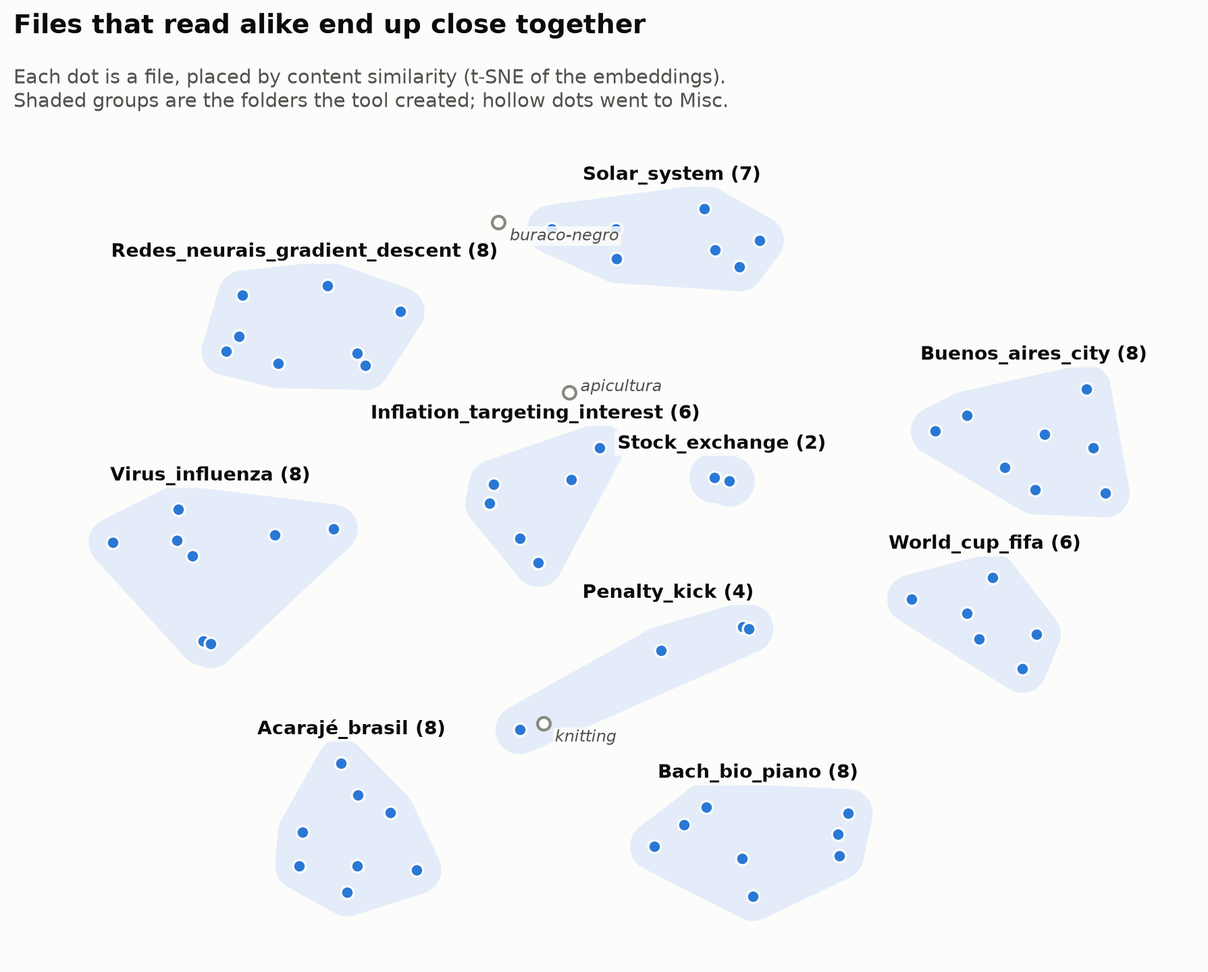
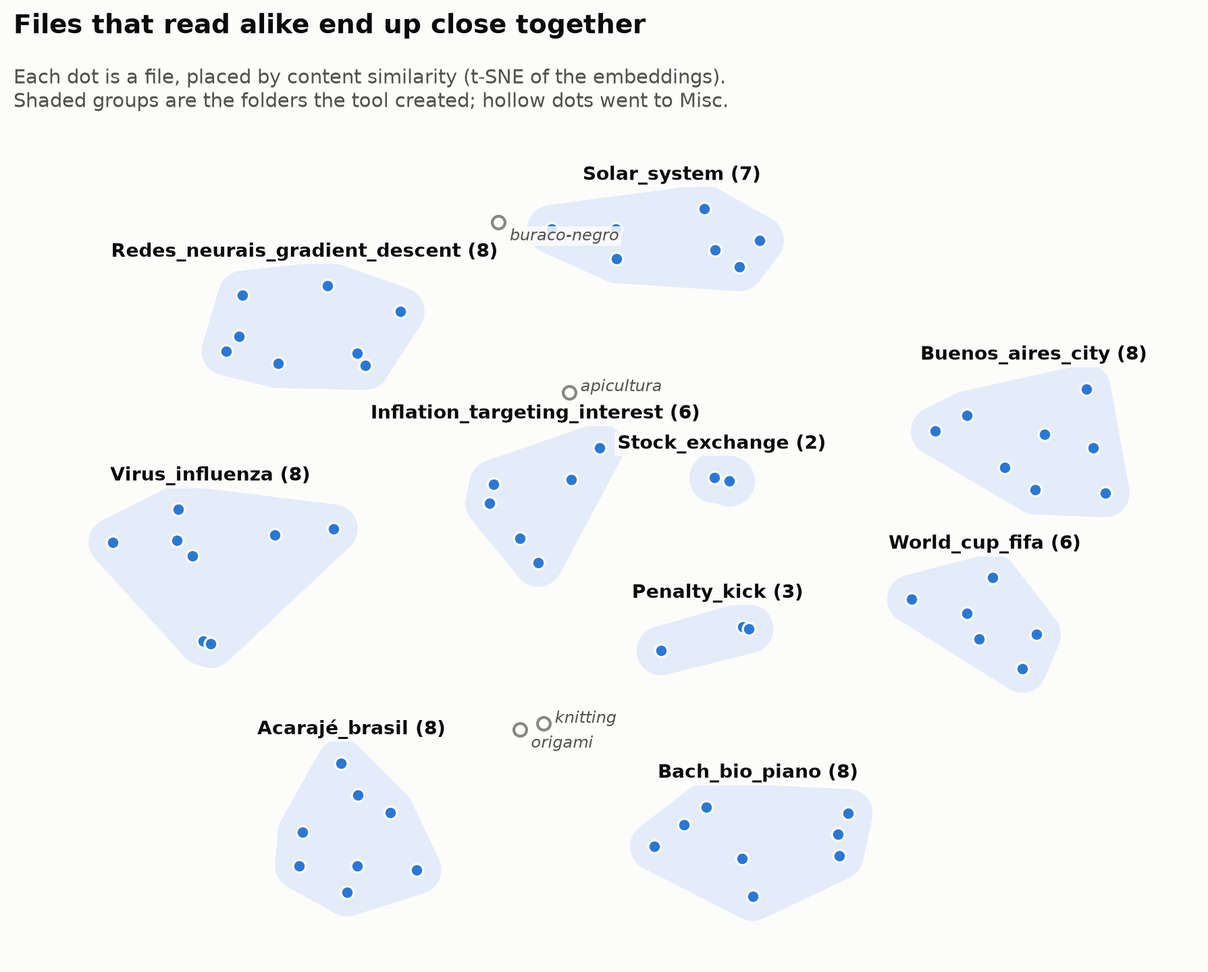
Update README, TODO and CLAUDE.md for v0.2.0; regenerate charts
Charts in docs/img are regenerated from examples/demo with no options at
all (language detection now automatic). The README covers --lang auto,
the new Misc rule, .rtf/.xlsx, --history/--version, measured speed and
the quality test; TODO.md records what was measured for each change,
including the four folder-naming alternatives that didn't beat YAKE.

Changed region(s): [[0.3997, 0.6421, 0.6149, 0.795], [0.4919, 0.581, 0.6456, 0.6421]]

diff --git a/CLAUDE.md b/CLAUDE.md
@@ -16,7 +16,7 @@ pip install -r requirements.txt
 ```
 Or `pip install -e .` (uses `pyproject.toml`) to also get a real `document_analyzer` top-level package and the `organize-files` console script.
 
-Run the CLI (prompts interactively for a directory path if omitted; see `main.py::parse_args` for the full flag set — `--target-dir`, `--dry-run`, `-y`, `--path-weight`, `--max-clusters`, `--keyword-ngram`, `--keyword-count`, `--lang`, `--misc-threshold`, `--copy`, `--report`, `--undo`, `--include-all`, `--exclude`, `--verbose`/`--quiet`):
+Run the CLI (prompts interactively for a directory path if omitted; see `main.py::parse_args` for the full flag set — `--target-dir`, `--dry-run`, `-y`, `--path-weight`, `--max-clusters`, `--keyword-ngram`, `--keyword-count`, `--lang` (default `auto`), `--misc-threshold`, `--copy`, `--report`, `--undo`, `--history`, `--version`, `--include-all`, `--exclude`, `--verbose`/`--quiet`):
 ```bash
 python -m src.document_analyzer.main
 ```
@@ -25,6 +25,11 @@ Run all tests:
 ```bash
 python -m unittest discover tests
 ```
+Quality test with the real embedding model on `examples/demo` (slow, ~470 MB model download the first time; skipped otherwise):
+```bash
+RUN_QUALITY=1 python -m unittest tests.test_quality
+```
+
 
 Run a single test file / test case / test method:
 ```bash
@@ -37,18 +42,18 @@ python -m unittest tests.test_analyzer.TestDocumentAnalyzer.test_extract_keyword
 
 Single pipeline, driven from `src/document_analyzer/analyzer.py::DocumentAnalyzer`:
 
-0. **`DocumentAnalyzer(path_weight=2, max_clusters=10, yake_ngram=2, yake_top=5, skip_noise=True, exclude_patterns=None, lang="en")`** — all seven tuning knobs are constructor params (also exposed as CLI flags in `main.py`); defaults match the original hardcoded values (`skip_noise`/`exclude_patterns`/`lang` are newer and have no old behavior to match — filtering defaults on, exclude defaults to none, `lang` defaults to the original hardcoded `"en"`). `lang` only selects YAKE's stopword list (the embedding model is multilingual regardless); set it to the language your documents are actually in (`--lang pt`), or that language's stopwords (`de`, `do`, `para`) become folder names. It accepts a comma-separated list (`--lang pt,en`) for mixed directories: `_stopwords(langs)` unions YAKE's bundled lists and passes them as the `stopwords=` kwarg, since YAKE itself only takes a single `lan`. It reads each list off a throwaway `KeywordExtractor` rather than opening the bundled `.txt` files (their path moved between YAKE 0.4 and 0.7), and returns `None` for a single language so the unchanged path stays entirely inside YAKE. `max_clusters < 3` raises `ValueError` immediately (`_find_optimal_clusters`'s candidate range `range(2, max_k)` is empty otherwise, which used to surface as a bare `numpy`/`sklearn` exception).
+0. **`DocumentAnalyzer(path_weight=2, max_clusters=10, yake_ngram=2, yake_top=5, skip_noise=True, exclude_patterns=None, lang="auto", misc_threshold=2.0)`** — all seven tuning knobs are constructor params (also exposed as CLI flags in `main.py`); defaults match the original hardcoded values (`skip_noise`/`exclude_patterns`/`lang` are newer and have no old behavior to match — filtering defaults on, exclude defaults to none, `lang` defaults to the original hardcoded `"en"`). `lang="auto"` (the default) detects each document's language among `AUTO_LANGS` (en, pt, es, fr, de, it, nl); a comma-separated list (`"pt,en"`) restricts detection to those codes. Either way `self.stopword_sets` holds `{lang: YAKE stopword set}` for the candidates; the languages actually found drive per-language centring and the YAKE stopwords (`_stopwords(langs)` unions the lists, since YAKE itself only takes a single `lan`; under auto the extractor is rebuilt in `analyze_directory` after detection). Audio is transcribed during the scan, before detection, so under auto `set_transcription_language` stays `en`; with an explicit list it uses the first code. It reads each list off a throwaway `KeywordExtractor` rather than opening the bundled `.txt` files (their path moved between YAKE 0.4 and 0.7), and returns `None` for a single language so the unchanged path stays entirely inside YAKE. `max_clusters < 3` raises `ValueError` immediately (`_find_optimal_clusters`'s candidate range `range(2, max_k)` is empty otherwise, which used to surface as a bare `numpy`/`sklearn` exception).
 
 1. **`analyze_directory(path)`** — top-level entry point.
    - Scans the directory (`os.scandir`, non-recursive at this level for files, but recurses into subfolders via `_analyze_folder`). Every entry is checked against `_is_noise_entry(name, self.skip_noise, self.exclude_patterns)`: when `skip_noise` (default on), a name starting with `.` or matching `DEFAULT_SKIP_NAMES` (`__pycache__`, `node_modules`) is skipped — this also incidentally hides `organize_files`' own `.file_organizer_created`/`.file_organizer_manifest_*.json` dotfiles from a later scan; `--include-all` (CLI) / `skip_noise=False` (constructor) disables just that default heuristic. Independently, any name matching one of `exclude_patterns` (`fnmatch` glob patterns, `--exclude PATTERN` on the CLI, repeatable) is always skipped, even under `--include-all` — it's an explicit user ask, not the default heuristic. A subfolder is skipped entirely (not recursed, not added as a document) if it's a symlink (`entry.is_symlink()` — prevents unbounded recursion on a symlink cycle) or if it contains `ORGANIZED_MARKER` (`.file_organizer_created`, dropped by `organize_files` into every cluster folder it creates — this stops a second run on an already-organized directory from re-clustering the first run's output as fresh documents); these two checks are unconditional, independent of both `skip_noise` and `exclude_patterns`.
-   - Files with extensions in `readable_files` (`.pdf`, `.txt`, `.md`, `.csv`, `.xml`, `.docx`, `.pptx`, `.odt`) get content via `utils.read_file`; extensions in `audio_files` (`.mp3`, `.wav`, `.flac`, `.aac`, `.ogg`, `.wma`, `.m4a`, `.aiff`, `.opus`) get content via `utils.read_audio_metadata`; everything else gets `Content: None`. Extension matching is case-insensitive (`ext.lower()`).
+   - Files with extensions in `readable_files` (`.pdf`, `.txt`, `.md`, `.csv`, `.xml`, `.rtf`, `.docx`, `.pptx`, `.odt`, `.xlsx`) get content via `utils.read_file(path, max_chars=READ_CHARS)` (5000 characters: the model only sees ~512 tokens, and reading whole PDFs was 181 s of a 411 s run on ~2000 files; `_analyze_folder` likewise stops reading file contents once a subfolder has `READ_CHARS` of text); extensions in `audio_files` (`.mp3`, `.wav`, `.flac`, `.aac`, `.ogg`, `.wma`, `.m4a`, `.aiff`, `.opus`) get content via `utils.read_audio_metadata`; everything else gets `Content: None`. Extension matching is case-insensitive (`ext.lower()`).
    - Builds a `pandas.DataFrame` with one row per top-level entry (`Path`, `Content`).
    - `utils.create_weighted_text` concatenates the filename (repeated `self.path_weight` times) with file content into a `Text` column — this weighting biases embeddings toward filename similarity, not just content.
    - Embeds `Text` via `SentenceTransformer(EMBEDDING_MODEL)` — `intfloat/multilingual-e5-small`, each text prefixed with `EMBEDDING_PREFIX` (`"query: "`, what e5's model card specifies for symmetric tasks like clustering) and encoded with `normalize_embeddings=True` so KMeans' Euclidean distance is monotonic in cosine distance, the metric these embeddings are trained for. Two deliberate choices here: multilingual, because the original `all-MiniLM-L6-v2` is English-only and gave non-English documents near-random embeddings; and 512-token context, because `paraphrase-multilingual-MiniLM-L12-v2` truncates at 128 — short enough that every letterheaded PDF (institution header, CNPJ, address) embedded to the same boilerplate and collapsed into one giant cluster. ~470MB download vs `all-MiniLM-L6-v2`'s ~90MB. If you change the model, re-check `max_seq_length` and whether it wants a prefix. Logs an info line before this step and before cluster-count search — both can be slow on larger directories.
-   - **Per-language centering** (only when `lang` lists 2+ codes; `self.stopword_sets` is `None` otherwise): `_detect_languages` assigns each `Text` the language whose YAKE stopwords it uses most, and `_center_by_language` subtracts each language's mean embedding and re-normalizes. Without it a pt+en folder clustered by *language* (e5 encodes language more strongly than topic); measured on `examples/demo`'s 64 topic texts, adjusted Rand vs. true topics at k=8 went 0.34 → 1.00. A language with a single document is left uncentred.
+   - **Per-language centering** (always runs): `_detect_languages` assigns each `Text` the candidate language whose stopwords it uses most, or `""` when it has none (bare filenames - that group is centred like a language too), and `_center_by_language` subtracts each language's mean embedding and re-normalizes. Without it a pt+en folder clustered by *language* (e5 encodes language more strongly than topic); measured on `examples/demo`'s 64 topic texts, adjusted Rand vs. true topics at k=8 went 0.34 → 1.00. A language with a single document is left uncentred.
    - `_find_optimal_clusters` picks a k (2..min(`self.max_clusters`, n-1), inclusive of both ends) by combining elbow-method (`_elbow_k`: `K[argmax(np.diff(inertia, 2)) + 1]` — it used to be `argmin` without the `+1`, i.e. the flattest stretch, off by one), silhouette score (max), and Davies-Bouldin score (min) — the **median** of the three candidates. Median rather than `Counter.most_common`: with three distinct candidates the counter silently returned whichever was inserted first (silhouette), and silhouette on one dense blob plus a few outliers always votes for a tiny k. The median still returns the majority value whenever two metrics agree. The upper bound is capped at `n - 1` rather than `n` because `silhouette_score` requires strictly fewer clusters than samples (k == n would crash mid-loop). The elbow candidate is only included when there are ≥3 k-values to test (≥5 documents), since a 2nd derivative needs 3+ points; below that it falls back to silhouette/Davies-Bouldin only, and directories with ≤2 usable documents skip clustering entirely (`k=1`, everything in one folder) rather than crashing. Davies-Bouldin replaced Calinski-Harabasz, which voted k=2 on nearly every real folder (so the median collapsed to min(elbow, silhouette)): on the 68-file demo k went 4 → 10, adjusted Rand 0.35 → 0.85.
    - Stores `self.k_scores` (`k`, `inertia`, `silhouette`, `davies_bouldin`, `votes`, `chosen`; `None` for ≤2 docs) and `self.last_run` (`paths`, `embeddings` as clustered, `k_scores`) for `report.py`.
-   - Runs `KMeans` with that k; documents whose distance to their centroid exceeds mean + `misc_threshold` × std (global z-score; `0` disables) get label `-1` → `MISC_FOLDER` (`"Misc"`, no YAKE naming). Then `_organize_clusters` names each cluster folder via `_folder_name(keywords)` — the top-2 YAKE keywords joined, dropping words the two share (YAKE's top keywords overlap constantly, which used to produce names like `Engenharia_eletrica_energia_eletrica`); falls back to `Cluster_<n>` if no keywords extracted. If two clusters produce the same folder name, their files are merged into that one folder (`setdefault(...).extend(...)`) rather than one cluster's files overwriting the other's.
+   - Runs `KMeans` with that k; `_misc_labels` gives label `-1` to documents farther than mean + `misc_threshold` × std from their centroid, with a negative silhouette (closer to another cluster than their own), or left alone in a cluster (`misc_threshold=0` disables all of it) → `MISC_FOLDER` (`"Misc"`, no YAKE naming). Then `_organize_clusters` names each cluster folder via `_folder_name(keywords)` — the top-2 YAKE keywords joined, dropping words the two share (YAKE's top keywords overlap constantly, which used to produce names like `Engenharia_eletrica_energia_eletrica`); falls back to `Cluster_<n>` if no keywords extracted. If two clusters produce the same folder name, their files are merged into that one folder (`setdefault(...).extend(...)`) rather than one cluster's files overwriting the other's.
    - Returns `{folder_name: [original_filenames]}`.
 
 2. **`_analyze_folder(folder_path)`** — recursively walks a subdirectory, concatenating all descendant file names/contents into a single `Content` blob so the whole subfolder is treated as one document for clustering purposes. Uses `entry.path` directly (never `os.path.join(folder_path, entry)` — `DirEntry.__fspath__` already returns the full path, so joining it again used to double the path and made every subfolder containing a readable/audio file raise `FileNotFoundError`, silently dropping that whole subfolder). Per-file read errors are caught here too, same as the top-level scan in `analyze_directory`, degrading to filename-only instead of losing the rest of the subfolder. Nested symlinked directories are skipped the same way as at the top level, for the same cycle-prevention reason. Applies the same `_is_noise_entry` filtering as the top-level scan, so a nested `.git`/`__pycache__`/`node_modules`/excluded-pattern entry doesn't get folded into the subfolder's content blob either.
@@ -56,13 +61,15 @@ Single pipeline, driven from `src/document_analyzer/analyzer.py::DocumentAnalyze
 3. **`organize_files(folder_structure, source_dir, target_dir=None, copy=False)`** — creates the cluster folders (under `target_dir`, defaulting to `source_dir`), drops `ORGANIZED_MARKER` into each one, and moves (`shutil.move`) each original file into its assigned folder — works across filesystems/drives, unlike `os.rename`. This is a real filesystem mutation — moves files out of `source_dir` in place unless `target_dir` is given. Before each move it checks whether the destination path already exists and skips (with a warning) instead of moving — `shutil.move` → `os.rename` on POSIX silently clobbers an existing destination with no error, so the `except FileExistsError` this used to rely on was dead code there (Windows-only). Every successful move is recorded as `{"source": ..., "destination": ...}` and, if anything moved, written as a JSON manifest to `target_dir` (`.file_organizer_manifest_<timestamp>.json`); the method returns that manifest's path (or `None` if nothing moved). **`undo_organize(manifest_path)`** (module-level function, not a method) reads a manifest and moves each destination back to its source, skipping (with a warning) if the destination is missing or the source path is already occupied — mirrors the same never-clobber rule in reverse. With `copy=True` entries are copied (`copy2`/`copytree`) and recorded with `"copy": true`; undo deletes such a copy only while its original still exists. After undoing, cluster folders holding only the marker are removed, and the manifest is deleted if no entry was skipped. Warnings/progress go through `logger`; only the manifest path/undo command and the undo summary are `print`ed.
 
 `src/document_analyzer/utils.py`:
-- `read_file` — dispatches by extension: `pypdf` for `.pdf` (its noisy per-object warnings are silenced at import), `_read_zipped_xml(path, member_glob, tags)` driven by `ZIPPED_XML_FORMATS` for `.docx` (`word/document.xml`, `w:t`), `.pptx` (`ppt/slides/slide*.xml` in numeric order, `a:t`) and `.odt` (`content.xml`, `text:p`/`text:h`) — stdlib only, `chardet`-detected-encoding text read for `.txt`/`.md`/`.csv`/`.xml`. Raises on unsupported/unreadable files; empty files return `""`.
+- `read_file(path, max_chars=None)` — dispatches by extension (with `max_chars`, PDFs stop extracting pages and text files stop reading once they have that much): `pypdf` for `.pdf` (its noisy per-object warnings are silenced at import), `_read_zipped_xml(path, member_glob, tags)` driven by `ZIPPED_XML_FORMATS` for `.docx` (`word/document.xml`, `w:t`), `.pptx` (`ppt/slides/slide*.xml` in numeric order, `a:t`) `.odt` (`content.xml`, `text:p`/`text:h`) and `.xlsx` (`xl/*.xml`, spreadsheetml `t` - shared and inline strings) — stdlib only, `_rtf_to_text` for `.rtf` (a small stdlib reader: drops font/colour/info/`\*` groups, decodes `\'hh` and `\uN`), `chardet`-detected-encoding text read (detection on the first 64 KB) for `.txt`/`.md`/`.csv`/`.xml`. Raises on unsupported/unreadable files; empty files return `""`.
 - `create_weighted_text` — the filename/content weighting used for embeddings (see above). Uses the name's words, not the raw filename: extension dropped, separators → spaces (`receita_pao-de.queijo.txt` → `receita pao de queijo`); otherwise YAKE put `feijoada.txt` into folder names. The `path_weight` repetitions are joined with spaces, not concatenated: `"a.pdfa.pdf"` tokenizes as one unknown blob, so the repetition used to add noise rather than weight.
 - `read_audio_metadata` — for `audio_files` extensions, combines TinyTag metadata (title/artist/album/genre/composer) with a Vosk offline transcription (via `transcribe_audio`, which shells out to `ffmpeg` to normalize to 16kHz mono WAV first). `TINYTAG_AVAILABLE`/`VOSK_AVAILABLE` are set at import time from `try/except ImportError`, so the whole audio path degrades to `None` (no crash) if `tinytag`/`vosk`/`ffmpeg` aren't installed — those are optional deps in `requirements.txt`. `set_transcription_language(lang_code)` picks from `VOSK_LANGUAGE_MODELS`; models are lazily downloaded to `VOSK_MODEL_DIR` (`~/.cache/vosk`) on first use per language. `DocumentAnalyzer.__init__` calls it with the first `--lang` code. `_convert_to_wav` uses `mkstemp` (not the racy `mktemp`).
 
-`src/document_analyzer/main.py` — CLI wrapper (`argparse`, see `parse_args`): takes `path` as a positional arg (prompted interactively if omitted), builds `DocumentAnalyzer` from the tuning flags, prints the proposed cluster structure, then either stops (`--dry-run`), moves without asking (`-y/--yes`), or asks for `y`/`N` confirmation before calling `organize_files` — nothing moves without an explicit opt-in. `--target-dir` is threaded through to `organize_files`; defaults to `path` (in-place) when omitted. `--undo MANIFEST` short-circuits all of this at the top of `main()` — if passed, it calls `undo_organize` and returns immediately, without touching `path`, `DocumentAnalyzer`, or any tuning flags. `--lang` is threaded to the `DocumentAnalyzer` constructor (YAKE stopwords only — it does not switch the embedding model, which is already multilingual); it takes one code or several (`pt,en`). `--verbose`/`--quiet` (mutually exclusive) pick the root logging level (`DEBUG`/`WARNING`, default `INFO`); `logging.basicConfig(..., force=True)` is called at the top of `main()` (not at import time) so the level reflects that run's flags — `force=True` matters in-process too, since `basicConfig` is normally a no-op after the first call. `_load_config()` reads `CONFIG_PATH` (`~/.config/file-organizer.toml`, module-level constant so tests can patch it) via stdlib `tomllib` at the top of `parse_args()`, before the parser is built; each `add_argument`'s `default=` pulls from that dict (e.g. `config.get("path_weight", 2)`) so an explicit CLI flag always overrides the config value, and a missing or malformed config file (caught as `tomllib.TOMLDecodeError`/`OSError`, logged as a warning) just falls back to the hardcoded defaults.
+`src/document_analyzer/main.py` — CLI wrapper (`argparse`, see `parse_args`): takes `path` as a positional arg (prompted interactively if omitted), builds `DocumentAnalyzer` from the tuning flags, prints the proposed cluster structure, then either stops (`--dry-run`), moves without asking (`-y/--yes`), or asks for `y`/`N` confirmation before calling `organize_files` — nothing moves without an explicit opt-in. `--target-dir` is threaded through to `organize_files`; defaults to `path` (in-place) when omitted. `--undo MANIFEST` short-circuits all of this at the top of `main()` — if passed, it calls `undo_organize` and returns immediately, without touching `path`, `DocumentAnalyzer`, or any tuning flags. `--lang` (default `auto`) is threaded to the `DocumentAnalyzer` constructor (language detection, per-language centring and YAKE stopwords — it never switches the embedding model, which is already multilingual); it takes `auto`, one code or several (`pt,en`). `--history` and `--undo` short-circuit before the analyzer (and its model) is built. `--verbose`/`--quiet` (mutually exclusive) pick the root logging level (`DEBUG`/`WARNING`, default `INFO`); `logging.basicConfig(..., force=True)` is called at the top of `main()` (not at import time) so the level reflects that run's flags — `force=True` matters in-process too, since `basicConfig` is normally a no-op after the first call. `_load_config()` reads `CONFIG_PATH` (`~/.config/file-organizer.toml`, module-level constant so tests can patch it) via stdlib `tomllib` at the top of `parse_args()`, before the parser is built; each `add_argument`'s `default=` pulls from that dict (e.g. `config.get("path_weight", 2)`) so an explicit CLI flag always overrides the config value, and a missing or malformed config file (caught as `tomllib.TOMLDecodeError`/`OSError`, logged as a warning) just falls back to the hardcoded defaults.
 
 `src/document_analyzer/report.py` — `save_report(last_run, folder_structure, out_dir)` for `--report DIR`, sized for a README (~9 in wide at 200 dpi, 11 pt base font, headline + subtitle via `_headline`): `map.png` is one t-SNE map (cosine, fixed seed) with one highlight hue — each folder gets a shaded outline (`_group_outline`: convex hull drawn with a thick round edge; 1-2 or collinear points fall back to a round-capped stroke) and a direct label, Misc files are hollow dots labelled with their names, and `_declutter` nudges overlapping labels upward (more than 3 categorical colours on one scatter fails colour-blind checks, hence no colour per folder). `k_selection.png` has three panels that all vote at their peak: the elbow panel plots the inertia's 2nd difference, and Davies-Bouldin's axis is inverted; the chosen k is a shaded column. `similarity.png` is the cosine heatmap ordered by folder with the diagonal blanked. matplotlib is imported lazily (optional `[viz]` extra). README images are generated with `organize-files examples/demo --dry-run --lang pt,en --report docs/img`; the 68 demo texts (8 topics x 8, pt+en, + 4 one-offs) are Wikipedia excerpts (CC BY-SA, `examples/ATTRIBUTION.md`, kept outside `demo/` so it isn't clustered).
+
+Run history: after writing a manifest, `organize_files` appends a JSON line (time, source/target dirs, manifest, file count, copy) to `HISTORY_PATH` (`$XDG_STATE_HOME/file-organizer/history.jsonl`, default `~/.local/state/...`; failures only warn); `read_history()` returns entries newest first, skipping malformed lines. `main.py --history` prints them with the undo command (or "undone" once the manifest is gone); `--version` reads `importlib.metadata.version("document-analyzer")`, `"dev"` from a checkout. Per-stage timings (read, embed, pick k, cluster+name) go to the INFO log; `silhouette_score` samples 2000 documents above that size.
 
 `src/document_analyzer/__init__.py` re-exports `DocumentAnalyzer` so `from document_analyzer import DocumentAnalyzer` works once the package is installed (`pip install -e .`, via `pyproject.toml`).
 
@@ -70,5 +77,7 @@ Single pipeline, driven from `src/document_analyzer/analyzer.py::DocumentAnalyze
 
 - `readable_files` in `analyzer.py` is the single source of truth for which extensions get content-read vs. treated as name-only; keep it in sync with `read_file`'s extension handling in `utils.py`.
 - Tests in `tests/test_analyzer.py` patch `SentenceTransformer`/`yake.KeywordExtractor` in `setUp` (via `src.document_analyzer.analyzer.SentenceTransformer` / `...analyzer.yake.KeywordExtractor` — the names as looked up from inside `analyzer.py`, not their origin modules) before `DocumentAnalyzer()` is constructed, so `self.mock_model`/`self.mock_kw_extractor` are available in every test. Configure `.encode.return_value` / `.extract_keywords.return_value` per test as needed.
+- `TestDocumentAnalyzer.setUp` also patches `src.document_analyzer.analyzer.HISTORY_PATH` to a temp file, so tests never append to the real run history.
+- `tests/test_quality.py` (skipped unless `RUN_QUALITY=1`) runs the real model with default settings on `examples/demo` and checks the folders against `examples/demo_topics.tsv` (adjusted Rand ≥ 0.8, no monolingual folders, report renders). CI runs it in its own job with the Hugging Face cache; the unit-test job runs on ubuntu/windows/macos × 3.12 plus ubuntu × 3.13.
 - `tests/test_main.py` patches `src.document_analyzer.main.DocumentAnalyzer` wholesale (never loads the real model) and drives `main()` via `sys.argv`/`input` patches to test the confirm/dry-run/`--yes` control flow in isolation from the real pipeline.
 - `tests/test_utils.py` covers `read_file` per extension (a real minimal `.docx` zip is built in-test; minimal `.pptx`/`.odt` zips too; PDF is exercised via a mocked `src.document_analyzer.utils.PdfReader`) and the audio path with `TINYTAG_AVAILABLE`/`VOSK_AVAILABLE`/`TinyTag` patched (`create=True` for `TinyTag` since `tinytag` isn't an installed dependency in this environment).

diff --git a/README.md b/README.md
@@ -4,7 +4,7 @@
 
 A local CLI that reads the documents in a folder, groups them by what they are *about*, and moves them into folders named after each group's keywords. Everything runs on your machine; the only network access is a one-time download of the models.
 
-`examples/demo/` is a flat folder of 68 Wikipedia excerpts: 8 topics with 8 texts each, half Portuguese and half English, plus 4 one-offs. After `organize-files examples/demo --lang pt,en`:
+`examples/demo/` is a flat folder of 68 Wikipedia excerpts: 8 topics with 8 texts each, half Portuguese and half English, plus 4 one-offs. After `organize-files examples/demo`, with no options:
 
 ```
 examples/demo/
@@ -16,42 +16,42 @@ examples/demo/
 ├── Solar_system/                    (7)  sistema_solar, mars - overview, lua, supernova, …
 ├── World_cup_fifa/                  (6)  copa-do-mundo, pele, flamengo, fifa, …
 ├── Inflation_targeting_interest/    (6)  inflacao, juros, compound_interest, central-bank, PIB, …
-├── Penalty_kick/                    (4)  penalty_kick, regra do impedimento, xadrez, origami
+├── Penalty_kick/                    (3)  penalty_kick, regra do impedimento, xadrez
 ├── Stock_exchange/                  (2)  stock market basics, bolsa de valores
-└── Misc/                            (3)  apicultura, knitting, buraco-negro
+└── Misc/                            (4)  apicultura, knitting, origami, buraco-negro
 ```
 
-Each folder mixes both languages: `redes neurais` (pt) sits next to `gradient_descent` (en). Five of the eight topics come out complete. Football and economics split into sensible sub-topics (clubs and cups vs. rules; stock markets vs. interest and inflation). The four one-offs either go to `Misc` or join their nearest neighbours: chess and origami end up next to the football rules. One astronomy text also lands in `Misc`; the outlier cut-off is a tunable heuristic (`--misc-threshold`). Folder names are the clusters' top keywords, so some are better than others (`Bach_bio_piano`).
+The languages are detected on their own, and each folder mixes both: `redes neurais` (pt) sits next to `gradient_descent` (en). Five of the eight topics come out complete. Football and economics split into sensible sub-topics (clubs and cups vs. rules; stock markets vs. interest and inflation). Three of the four one-offs go to `Misc`; chess joins the football rules, which is at least about game rules. One astronomy text also lands in `Misc`. Agreement with the true topics is 0.90 (adjusted Rand index, 1.0 = perfect). Folder names are the clusters' top keywords, so some are better than others (`Bach_bio_piano`).
 
 ## How it works
 
 ```mermaid
 flowchart LR
-    A["Files<br/>pdf · docx · pptx · odt<br/>txt · md · csv · xml · audio"] --> B["Read text<br/>+ filename words"]
+    A["Files<br/>pdf · docx · pptx · odt · xlsx · rtf<br/>txt · md · csv · xml · audio"] --> B["Read text<br/>+ filename words"]
     B --> C["Embed<br/>multilingual-e5-small"]
-    C --> D["Center per language<br/>(--lang pt,en)"]
+    C --> D["Detect language,<br/>center per language"]
     D --> E["Pick k<br/>elbow · silhouette · Davies-Bouldin"]
     E --> F["KMeans<br/>+ Misc for outliers"]
     F --> G["Name folders<br/>YAKE keywords"]
     G --> H["Move or copy<br/>+ undo manifest"]
 ```
 
-1. **Read.** Text is extracted from each file (PDF, Office, plain text, or an offline Vosk transcription for audio). A subfolder counts as one document.
+1. **Read.** Text is extracted from the start of each file (PDF, Office, RTF, plain text, or an offline Vosk transcription for audio). A subfolder counts as one document.
 2. **Embed.** Each document becomes a vector with [`intfloat/multilingual-e5-small`](https://huggingface.co/intfloat/multilingual-e5-small) (multilingual, 512-token window). The filename's words are repeated in front of the content (`--path-weight`).
-3. **Center per language.** Multilingual models still encode *which language* a text is in, strongly enough that a pt+en folder used to split by language instead of topic. When `--lang` lists several languages, each document's language is detected from its stopwords and that language's average vector is subtracted. On the demo's 64 topic texts, agreement with the true topics (adjusted Rand index at k = 8) goes from 0.34 to 1.00.
+3. **Center per language.** Multilingual models still encode *which language* a text is in, strongly enough that a mixed folder would otherwise split by language instead of topic. Each document's language is detected from its stopwords (English, Portuguese, Spanish, French, German, Italian or Dutch), and that language's average vector is subtracted. On the demo's 64 topic texts, agreement with the true topics goes from 0.34 to 1.00.
 4. **Pick k.** KMeans is run for every k up to `--max-clusters`. Three metrics each vote for a k, and the median vote wins.
-5. **Cluster.** KMeans runs with that k. Documents unusually far from their cluster's centre go to `Misc`.
+5. **Cluster.** KMeans runs with that k. A document goes to `Misc` instead if it is unusually far from its cluster's centre, closer to another cluster than to its own, or left alone in a cluster.
 6. **Name and move.** Each folder is named from its top YAKE keywords. Files are moved (or copied, with `--copy`), and every move is recorded in a manifest that `--undo` replays in reverse.
 
 ### Seeing a run: `--report`
 
-`--report DIR` saves three charts of a run. The ones below are the demo run (`organize-files examples/demo --dry-run --lang pt,en --report docs/img`).
+`--report DIR` saves three charts of a run. The ones below are the demo run (`organize-files examples/demo --dry-run --report docs/img`).
 
 **Document map.** Every dot is a file, placed so that files with similar content sit close together (a t-SNE projection of the embeddings). The shaded outlines and labels are the folders the tool created. Hollow dots went to `Misc`.
 
 ![Document map](docs/img/map.png)
 
-**Choosing k.** Each metric votes for the k at its peak: the sharpest bend of the inertia curve (elbow), the best silhouette, and the best Davies-Bouldin score (its axis is flipped because lower is better). Here the votes are 4, 10 and 10, so the median picks 10. Davies-Bouldin replaced Calinski-Harabasz, which voted k = 2 on nearly every real folder; on this demo that dragged the median down to 4 and mixed topics together (adjusted Rand 0.35, against 0.85 now).
+**Choosing k.** Each metric votes for the k at its peak: the sharpest bend of the inertia curve (elbow), the best silhouette, and the best Davies-Bouldin score (its axis is flipped because lower is better). Here the votes are 4, 10 and 10, so the median picks 10. Davies-Bouldin replaced Calinski-Harabasz, which voted k = 2 on nearly every real folder; on this demo that dragged the median down to 4 and mixed topics together.
 
 ![Choosing the number of folders](docs/img/k_selection.png)
 
@@ -59,7 +59,11 @@ flowchart LR
 
 ![Similarity heatmap](docs/img/similarity.png)
 
-The demo texts are the opening sections of Wikipedia articles, CC BY-SA 4.0 (see [`examples/ATTRIBUTION.md`](examples/ATTRIBUTION.md)).
+The demo texts are the opening sections of Wikipedia articles, CC BY-SA 4.0 (see [`examples/ATTRIBUTION.md`](examples/ATTRIBUTION.md)). Their true topics are in [`examples/demo_topics.tsv`](examples/demo_topics.tsv), which the quality test checks against.
+
+### Speed
+
+On a laptop CPU, about 2,000 files (a third of them PDFs) take about 4 minutes, two thirds of it computing the embeddings. Only the first 5,000 characters of each file are read, since the model sees about 512 tokens anyway. With `--verbose` or the default logging, each stage reports its time. A CUDA build of PyTorch is used automatically if present.
 
 ## Installation
 
@@ -71,13 +75,14 @@ pip install -e .[viz]       # + matplotlib, for --report
 pip install -e .[audio]     # + tinytag/vosk, for audio metadata and transcription
 ```
 
-Or `pip install -r requirements.txt` for everything, optional dependencies included. Audio transcription also needs `ffmpeg` on `PATH`; without it, audio files are still clustered by filename and tags. The embedding model (~470 MB) downloads on first run. Vosk models download per language to `~/.cache/vosk`.
+Or `pip install -r requirements.txt` for everything, optional dependencies included, or install a release straight from GitHub: `pip install "document-analyzer[viz] @ git+https://github.com/RafaelSdeS/File-Organizer@v0.2.0"`. Audio transcription also needs `ffmpeg` on `PATH`; without it, audio files are still clustered by filename and tags. The embedding model (~470 MB) downloads on first run. Vosk models download per language to `~/.cache/vosk`.
 
 ## Usage
 
 ```bash
-organize-files ~/Downloads --lang pt,en --dry-run     # preview only
-organize-files ~/Downloads --lang pt,en               # asks before moving
+organize-files ~/Downloads --dry-run      # preview only
+organize-files ~/Downloads                # asks before moving
+organize-files --history                  # past runs, each with its undo command
 organize-files --undo ~/Downloads/.file_organizer_manifest_<timestamp>.json
 ```
 
@@ -86,29 +91,31 @@ organize-files --undo ~/Downloads/.file_organizer_manifest_<timestamp>.json
 | Flag | What it does |
 |---|---|
 | `path` | Folder to organize (prompted if omitted) |
-| `--lang CODES` | Language(s) of your documents, comma-separated (`pt`, `pt,en`). Selects the stopwords for folder names and the transcription language, and with several codes turns on per-language centering. Default `en` |
+| `--lang CODES` | `auto` (default) detects each file's language among en, pt, es, fr, de, it and nl. A comma-separated list (`pt`, `pt,en`) restricts detection to those. Also sets the audio transcription language (English under `auto`, since audio is read before detection) |
 | `--dry-run` | Show the proposed folders without touching anything |
 | `-y, --yes` | Skip the confirmation prompt |
 | `--target-dir DIR` | Put the organized folders here instead of in place |
 | `--copy` | Copy instead of move; originals stay where they are |
 | `--undo MANIFEST` | Revert a previous run. Moved files go back, copies are deleted (never the last copy), and the emptied folders and the manifest are removed |
+| `--history` | List past runs, newest first, with the command to undo each one (kept in `~/.local/state/file-organizer/history.jsonl`) |
 | `--report DIR` | Save the three charts above for this run (needs `[viz]`) |
-| `--misc-threshold N` | Send documents more than mean + N std from their cluster centre to `Misc`; `0` disables (default `2.0`) |
+| `--misc-threshold N` | Send to `Misc` documents more than mean + N std from their cluster centre, closer to another cluster, or alone in one; `0` disables `Misc` (default `2.0`) |
 | `--max-clusters N` | Largest k to consider (default `10`) |
 | `--path-weight N` | Times the filename is repeated before the content (default `2`) |
 | `--keyword-ngram N` / `--keyword-count N` | YAKE keyword length / how many to extract; the top 2 name the folder (defaults `2` / `5`) |
 | `--exclude PATTERN` | Glob to skip, repeatable (`--exclude '*.log'`) |
 | `--include-all` | Don't skip hidden entries, `__pycache__` or `node_modules` |
-| `--verbose` / `--quiet` | DEBUG / WARNING logging (default INFO, which also shows a progress bar) |
+| `--verbose` / `--quiet` | DEBUG / WARNING logging (default INFO, which also shows a progress bar and stage timings) |
+| `--version` | Print the installed version |
 
-**Safety.** Nothing moves without confirmation (or `-y`). An existing file is never overwritten. Folders created by a previous run are marked and skipped on the next run. Every run writes an undo manifest.
+**Safety.** Nothing moves without confirmation (or `-y`). An existing file is never overwritten. Folders created by a previous run are marked and skipped on the next run. Every run writes an undo manifest and a line in the history.
 
 ### Saved defaults
 
-Every flag except `--dry-run`, `-y`, `--undo` and `--report` can be set in `~/.config/file-organizer.toml` (dashes become underscores). Flags on the command line still win:
+Every flag except `--dry-run`, `-y`, `--undo`, `--history`, `--version` and `--report` can be set in `~/.config/file-organizer.toml` (dashes become underscores). Flags on the command line still win:
 
 ```toml
-lang = "pt,en"
+lang = "pt,en"        # restrict detection; the default is "auto"
 max_clusters = 12
 misc_threshold = 2.5
 copy = true
@@ -120,13 +127,22 @@ exclude = ["*.log", "tmp_*"]
 ```python
 from document_analyzer import DocumentAnalyzer
 
-analyzer = DocumentAnalyzer(lang="pt,en")  # same knobs as the CLI flags
+analyzer = DocumentAnalyzer()  # same knobs as the CLI flags, e.g. lang="pt,en"
 folders = analyzer.analyze_directory("/path/to/documents")  # {folder: [files]}
 manifest = analyzer.organize_files(folders, source_dir="/path/to/documents",
                                    target_dir="/path/to/organized", copy=False)
 ```
 
 `analyze_directory` raises `ValueError`, `FileNotFoundError` or `PermissionError` for a bad path, and `RuntimeError` if embedding or clustering fails. A file that can't be read is logged and still clustered by its name.
+
+## Development
+
+```bash
+python -m unittest discover tests                    # unit tests (model mocked, ~1 s)
+RUN_QUALITY=1 python -m unittest tests.test_quality  # real model on examples/demo
+```
+
+CI runs the unit tests on Linux, Windows and macOS, and the quality test in a separate job.
 
 ## License
 

diff --git a/TODO.md b/TODO.md
@@ -124,25 +124,51 @@ Priority order: **Critical** (can silently destroy or lose user data / crash)
       names** (`Eduardo_gomes_feijoada.txt`). `create_weighted_text` now uses
       the name's words: `receita_pao-de.queijo.txt` → `receita pao de queijo`.
 - [ ] **Better folder names.** YAKE on a cluster's concatenated text favours
-      one document's frequent phrase (`Bach_bio`, `Eduardo_gomes_feijoada` from
-      "Brigadeiro Eduardo Gomes"). Class-based TF-IDF (terms frequent in this
-      cluster, rare in the others; `TfidfVectorizer` is already installed)
-      would name what the cluster's files *share*. Next quality lever.
+      one document's frequent phrase (`Bach_bio_piano`, `Buenos_aires_city`).
+      Tried for v0.2.0 on the same clusters (demo + a real 32-file folder),
+      none consistently better, so YAKE stays - don't re-try these without a
+      new idea:
+      - class-based TF-IDF: `Piano_musical`, `Tokyo_aires`; on real PDFs it
+        surfaces extraction garbage (`Tensªo_vocœ`, `Oes_equa`);
+      - share-of-files × rarity across clusters: generic words
+        (`Envolve_jogadores`, `Eficaz_virus`);
+      - YAKE candidates re-ranked by share of files: better on some demo
+        folders (`Music_musical`, `Inflação_central_bank`), worse on real ones
+        (`Brazil_tools`);
+      - filename repeated once instead of twice: changes 3 of 18 names, a wash.
+      The real limits are noisy PDF text and that a good name is a summary.
 - [x] **Calinski-Harabasz voted k=2 on nearly every real folder**, so the
       median collapsed to min(elbow, silhouette). It bit on the 68-file demo:
       k=4, adjusted Rand 0.35. Swapped for Davies-Bouldin (lower = better):
       k=10, ARI 0.85; the 32-file personal test folder chose k=9 either way.
-- [ ] **One-offs still get glued to a cluster when k is large enough to give
-      them one.** On the 68-file demo, chess and origami join the two
-      football-rules texts. Misc only catches files far from their *own*
-      centroid; a min-cluster-size rule (fold clusters of 1-2 into Misc) would
-      be the next small step if it matters on real folders.
+- [x] **One-offs got glued to a cluster** (chess and origami joined the two
+      football-rules texts). Misc now also takes documents with a negative
+      silhouette (closer to another cluster than their own) and any document
+      left alone in its cluster (`_misc_labels`). Measured against the
+      distance-only rule, per-cluster z-scores and singletons alone: demo
+      one-offs caught 2/4 → 3/4 with the same one false positive; on the real
+      folder it pulled out exactly the misplaced files. Chess still joins the
+      football rules (it *is* about game rules).
+- [x] **`--lang auto` is the default.** Without `--lang pt,en` a mixed folder
+      still split by language (demo ARI 0.37). Each file's language is now
+      detected among en/pt/es/fr/de/it/nl by stopword counts - 88/88 right on
+      the demo plus 20 es/fr/de/it/nl excerpts, so plain counting was kept
+      over exclusive-stopword or size-normalised scoring (also 88/88). Files
+      with no stopwords (bare names) form their own group for centring.
+- [x] **Quality regression test** with the real model on the demo
+      (`tests/test_quality.py`, `RUN_QUALITY=1`, own CI job with a cached
+      model). The unit tests mock the model, so before this the language and
+      k-selection bugs only showed up in the charts.
 
 ## Features (local-only, keep them lightweight — stdlib/already-installed deps first)
 
-- [x] **Undo/manifest support** — `--undo` done (see Critical above). Not
-      done: `--history` to list past runs (would mean scanning target dirs
-      for `.file_organizer_manifest_*.json` files, or keeping a central log).
+- [x] **Undo/manifest support** — `--undo` done (see Critical above), and
+      `--history` lists past runs from a central log
+      (`~/.local/state/file-organizer/history.jsonl`) with each undo command.
+- [x] **`--version`**, package at 0.2.0, GitHub release `v0.2.0`.
+- [x] **Scale.** Reading capped at `READ_CHARS` (5000; the model only sees
+      ~512 tokens anyway), silhouette sampled above 2000 files, per-stage
+      timings in the INFO log. Numbers in the README.
 - [x] **`--exclude` pattern(s)** for the noise-filtering item above, for
       cases the default skip list doesn't cover.
 - [x] **`--verbose`/`--quiet`** — logging level is hardcoded to `INFO` in
@@ -152,8 +178,8 @@ Priority order: **Critical** (can silently destroy or lose user data / crash)
       people don't retype `--path-weight`/`--max-clusters`/etc. every run.
       `requires-python` now `>=3.12` (numpy 2.5 has no 3.11 wheels).
 - [x] **More readable formats** — `.md`/`.csv` (plain text), `.pptx`/`.odt`
-      (zip + XML, same reader as `.docx`: `_read_zipped_xml`). Still not done:
-      `.rtf`, `.xlsx` — no real need seen yet.
+      (zip + XML, same reader as `.docx`: `_read_zipped_xml`), `.xlsx` (same
+      reader) and `.rtf` (a ~30-line stdlib reader, `_rtf_to_text`).
 - [x] **`--copy`** — copy instead of move; undo deletes the copies, never the
       last one.
 - [x] **`--report DIR`** — document map, k-selection and similarity charts
@@ -172,7 +198,8 @@ Priority order: **Critical** (can silently destroy or lose user data / crash)
       unverified, not confirmed.
 - [x] **CI never passed** — every run failed at `pip install`: `numpy==2.5.1`
       has no Python 3.11 wheels. CI now on 3.12, CPU-only torch (the PyPI build
-      pulled 14 CUDA packages), pip cache. Green unconfirmed until next push.
+      pulled 14 CUDA packages), pip cache. Now also Windows, macOS and
+      Python 3.13.
 - [x] **PyPDF2 → pypdf** (PyPDF2 is deprecated; same API), and its per-PDF
       "Ignoring wrong pointing object" warnings silenced.
 - [x] **Delete or wire in `analyze_document_content`** in `utils.py:116` —
